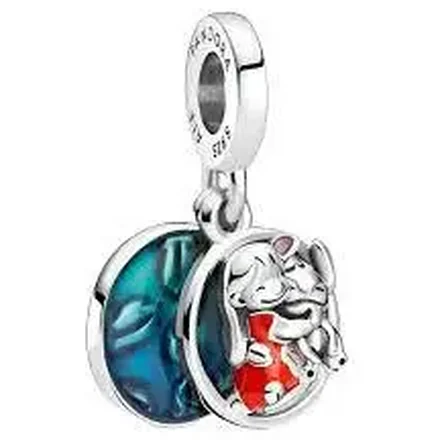
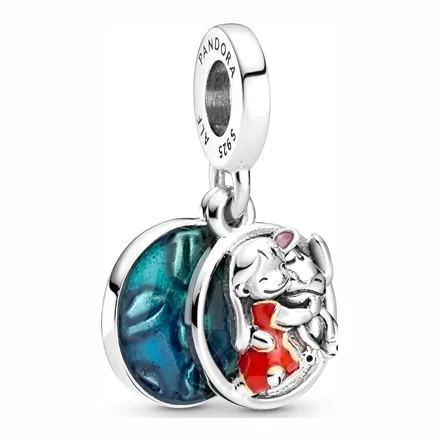
Fotos: Lilo & Stitch mejorada en Flow (la marca tiene permiso)
El propietario confirma (2026-09-26) que tienen permiso de la marca: las fotos con «PANDORA» grabado se dejan tal cual, y entra la versión de Flow que se había apartado. Fondo a blanco como las otras 39; ?v=20260926.

Claude-Session: https://claude.ai/code/session_01W4RsyiqvSJqQsVyuwmuYtL

Changed region(s): [[0.1773, 0.0, 0.7977, 0.975]]

diff --git a/producto-lilo-stitch.html b/producto-lilo-stitch.html
@@ -14,14 +14,14 @@
 <meta property="og:title" content="Lilo &amp; Stitch · Plata 925 · Zephora Charms">
 <meta property="og:description" content="Lilo &amp; Stitch · Plata 925. Dije. $95.000 con envío gratis a toda Colombia pagando en línea, o contraentrega.">
 <meta property="og:url" content="https://zephoracharms.com/producto-lilo-stitch.html">
-<meta property="og:image" content="https://zephoracharms.com/assets/lilo-y-stitch.webp?v=20260822">
+<meta property="og:image" content="https://zephoracharms.com/assets/lilo-y-stitch.webp?v=20260926">
 <meta property="product:price:amount" content="95000">
 <meta property="product:price:currency" content="COP">
 <meta name="twitter:card" content="summary_large_image">
 <meta name="twitter:title" content="Lilo &amp; Stitch · Plata 925 · Zephora Charms">
 <meta name="twitter:description" content="Lilo &amp; Stitch · Plata 925. Dije. $95.000 con envío gratis a toda Colombia pagando en línea, o contraentrega.">
-<meta name="twitter:image" content="https://zephoracharms.com/assets/lilo-y-stitch.webp?v=20260822">
-<script type="application/ld+json">{"@context": "https://schema.org", "@type": "Product", "name": "Lilo & Stitch", "sku": "lilo-stitch", "image": "https://zephoracharms.com/assets/lilo-y-stitch.webp?v=20260822", "brand": {"@type": "Brand", "name": "Zephora Charms"}, "category": "Disney", "offers": {"@type": "Offer", "price": 95000, "priceCurrency": "COP", "url": "https://zephoracharms.com/producto-lilo-stitch.html", "availability": "https://schema.org/InStock"}}</script>
+<meta name="twitter:image" content="https://zephoracharms.com/assets/lilo-y-stitch.webp?v=20260926">
+<script type="application/ld+json">{"@context": "https://schema.org", "@type": "Product", "name": "Lilo & Stitch", "sku": "lilo-stitch", "image": "https://zephoracharms.com/assets/lilo-y-stitch.webp?v=20260926", "brand": {"@type": "Brand", "name": "Zephora Charms"}, "category": "Disney", "offers": {"@type": "Offer", "price": 95000, "priceCurrency": "COP", "url": "https://zephoracharms.com/producto-lilo-stitch.html", "availability": "https://schema.org/InStock"}}</script>
 <link rel="preconnect" href="https://fonts.googleapis.com">
 <link rel="preconnect" href="https://fonts.gstatic.com" crossorigin>
 <link href="https://fonts.googleapis.com/css2?family=Cormorant+Garamond:ital,wght@0,300;0,400;0,500;1,300;1,400&family=Jost:wght@300;400;500&display=swap" rel="stylesheet">
@@ -162,7 +162,7 @@ src="https://www.facebook.com/tr?id=2130673404542988&ev=PageView&noscript=1"/></
 <section class="pp wrap" id="top">
   <div class="pp-in">
     <article class="pc pc--pp" data-id="lilo-stitch" data-g="Disney">
-<div class="pc-img"><img src="assets/lilo-y-stitch.webp?v=20260822" alt="Lilo &amp; Stitch" width="440" height="440" fetchpriority="high" decoding="async"><span class="pc-mark">Plata 925</span></div>
+<div class="pc-img"><img src="assets/lilo-y-stitch.webp?v=20260926" alt="Lilo &amp; Stitch" width="440" height="440" fetchpriority="high" decoding="async"><span class="pc-mark">Plata 925</span></div>
 <div class="pc-body"><h1 class="pc-name">Lilo &amp; Stitch</h1><p class="pc-meta">Dije</p>
 <div class="pc-foot"><span class="pc-price">$95.000</span><button class="pc-add" type="button" data-add="lilo-stitch" aria-label="Agregar Lilo &amp; Stitch">Agregar</button></div></div></article>
     <!-- El orden de la ficha es el de automatizaciones/tienda/ENCARGO-FICHA.md:

diff --git a/index.html b/index.html
@@ -531,7 +531,7 @@ src="https://www.facebook.com/tr?id=2130673404542988&ev=PageView&noscript=1"/></
 <div class="pc-body"><h3 class="pc-name"><a href="producto-angel.html">Angel</a></h3><p class="pc-meta">Lilo &amp; Stitch</p>
 <div class="pc-foot"><span class="pc-price">$95.000</span><button class="pc-add" type="button" data-add="angel" aria-label="Agregar Angel">Agregar</button></div></div></article>
 <article class="pc" data-id="lilo-stitch" data-g="Disney">
-<div class="pc-img"><img src="assets/lilo-y-stitch.webp?v=20260822" alt="Lilo &amp; Stitch" width="440" height="440" loading="lazy" decoding="async"><span class="pc-mark">Plata 925</span></div>
+<div class="pc-img"><img src="assets/lilo-y-stitch.webp?v=20260926" alt="Lilo &amp; Stitch" width="440" height="440" loading="lazy" decoding="async"><span class="pc-mark">Plata 925</span></div>
 <div class="pc-body"><h3 class="pc-name"><a href="producto-lilo-stitch.html">Lilo &amp; Stitch</a></h3><p class="pc-meta">Dije</p>
 <div class="pc-foot"><span class="pc-price">$95.000</span><button class="pc-add" type="button" data-add="lilo-stitch" aria-label="Agregar Lilo &amp; Stitch">Agregar</button></div></div></article>
 <article class="pc" data-id="gato-cheshire" data-g="Disney">
